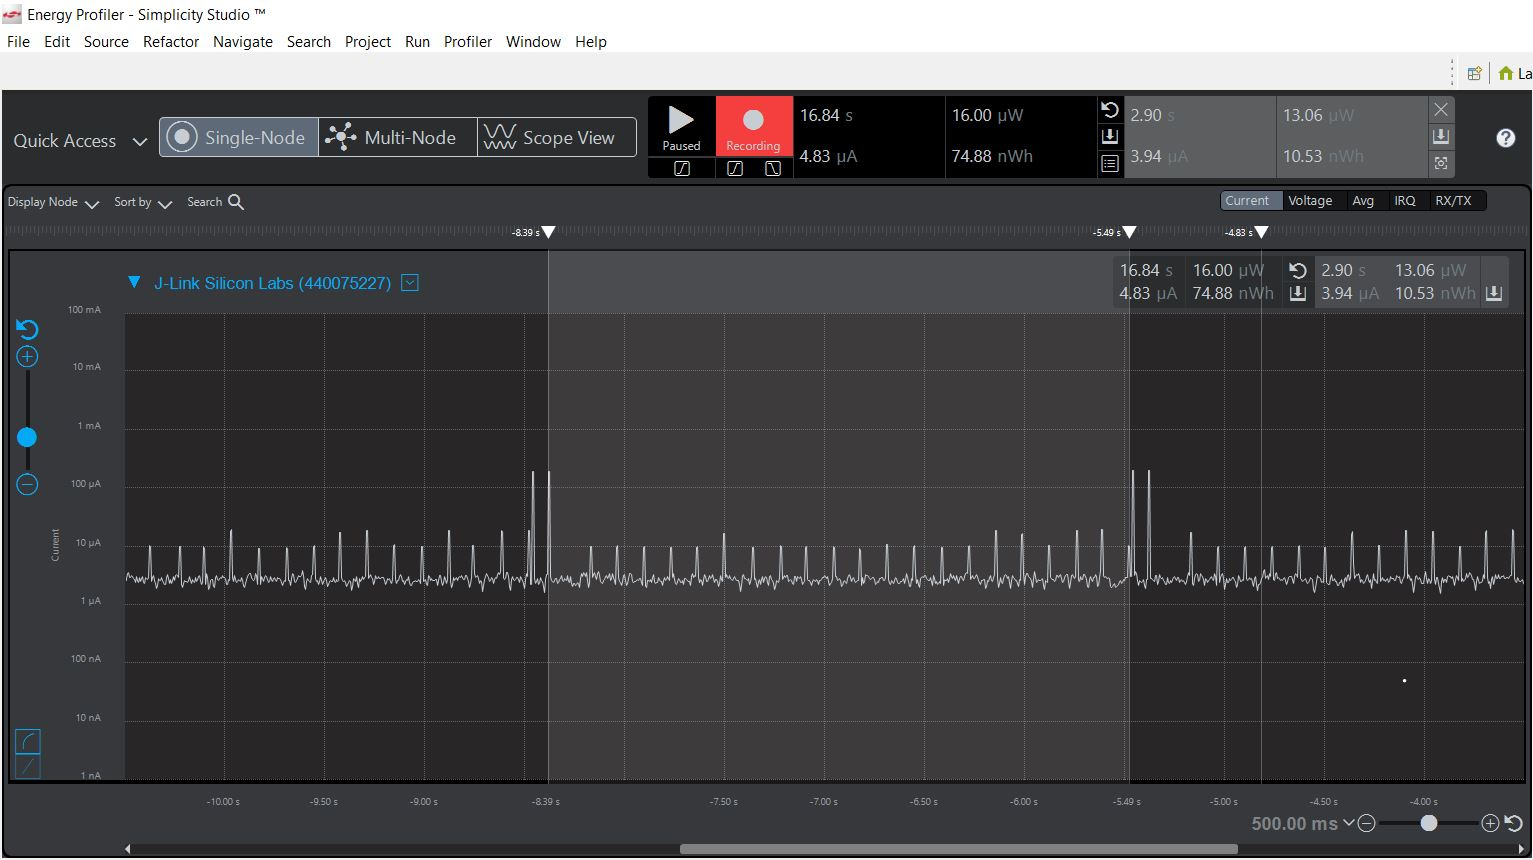
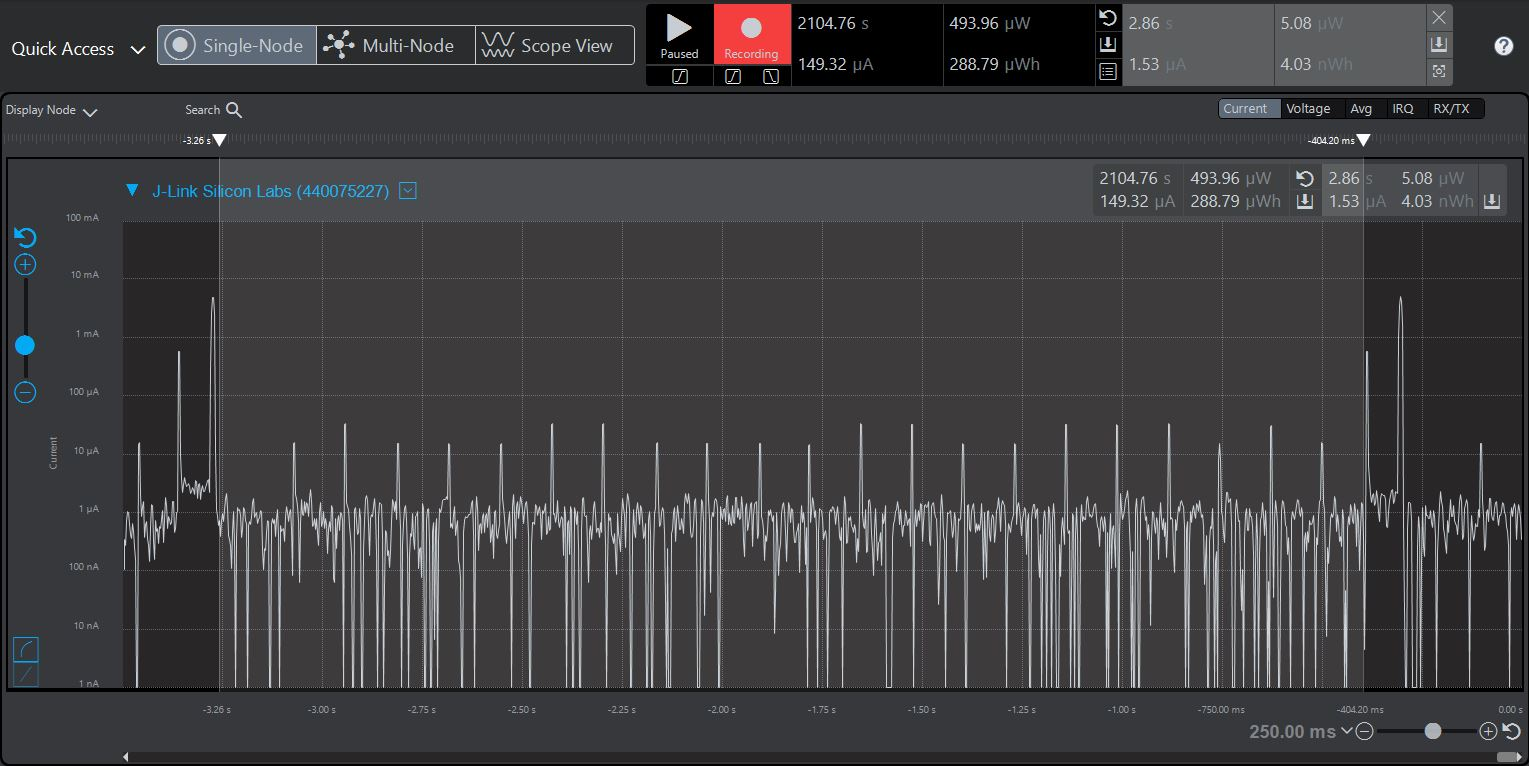
Added updated screenshots

diff --git a/src/main.c b/src/main.c
@@ -6,6 +6,9 @@
  *	In this assignment, we measure the temperature every 3 seconds
  *	using the inbuilt temperature sensor over I2C. The period is
  *	controlled by the LETIMER.
+ *
+ *	ENERGYMODE parameter defined in configSLEEP.h allows the system to
+ *	sleep in that particular sleep mode.
  ************************************************************************/
 
 /* Board headers */
@@ -116,7 +119,9 @@ int main(void)
 	// Initialize LETIMER
 	initLETIMER();
 
-//	SLEEP_SleepBlockBegin(ENERGYMODE+1);
+#if ((ENERGYMODE == 0) | (ENERGYMODE == 1) | (ENERGYMODE == 2))
+	SLEEP_SleepBlockBegin(ENERGYMODE+1);
+#endif
 
 	/* Infinite loop */
 	while(1)
@@ -214,12 +219,13 @@ int main(void)
 
 		/* Changing the current state and logging the change */
 		if(current_state != next_state){
-//			timestamp = loggerGetTimestamp();
-//			LOG_INFO("%d: ", timestamp);
+			timestamp = loggerGetTimestamp();
+			LOG_INFO("%d: ", timestamp);
 			LOG_INFO("Temp sensor transitioned from state %d to state %d\n", current_state, next_state);
 			current_state = next_state;
 		}
 
+		/* System sleeps when there is no event */
 		if(ENERGYMODE > sleepEM0 && TEMP_EVENT.NoEvent == true)
 			SLEEP_Sleep();
  	}
